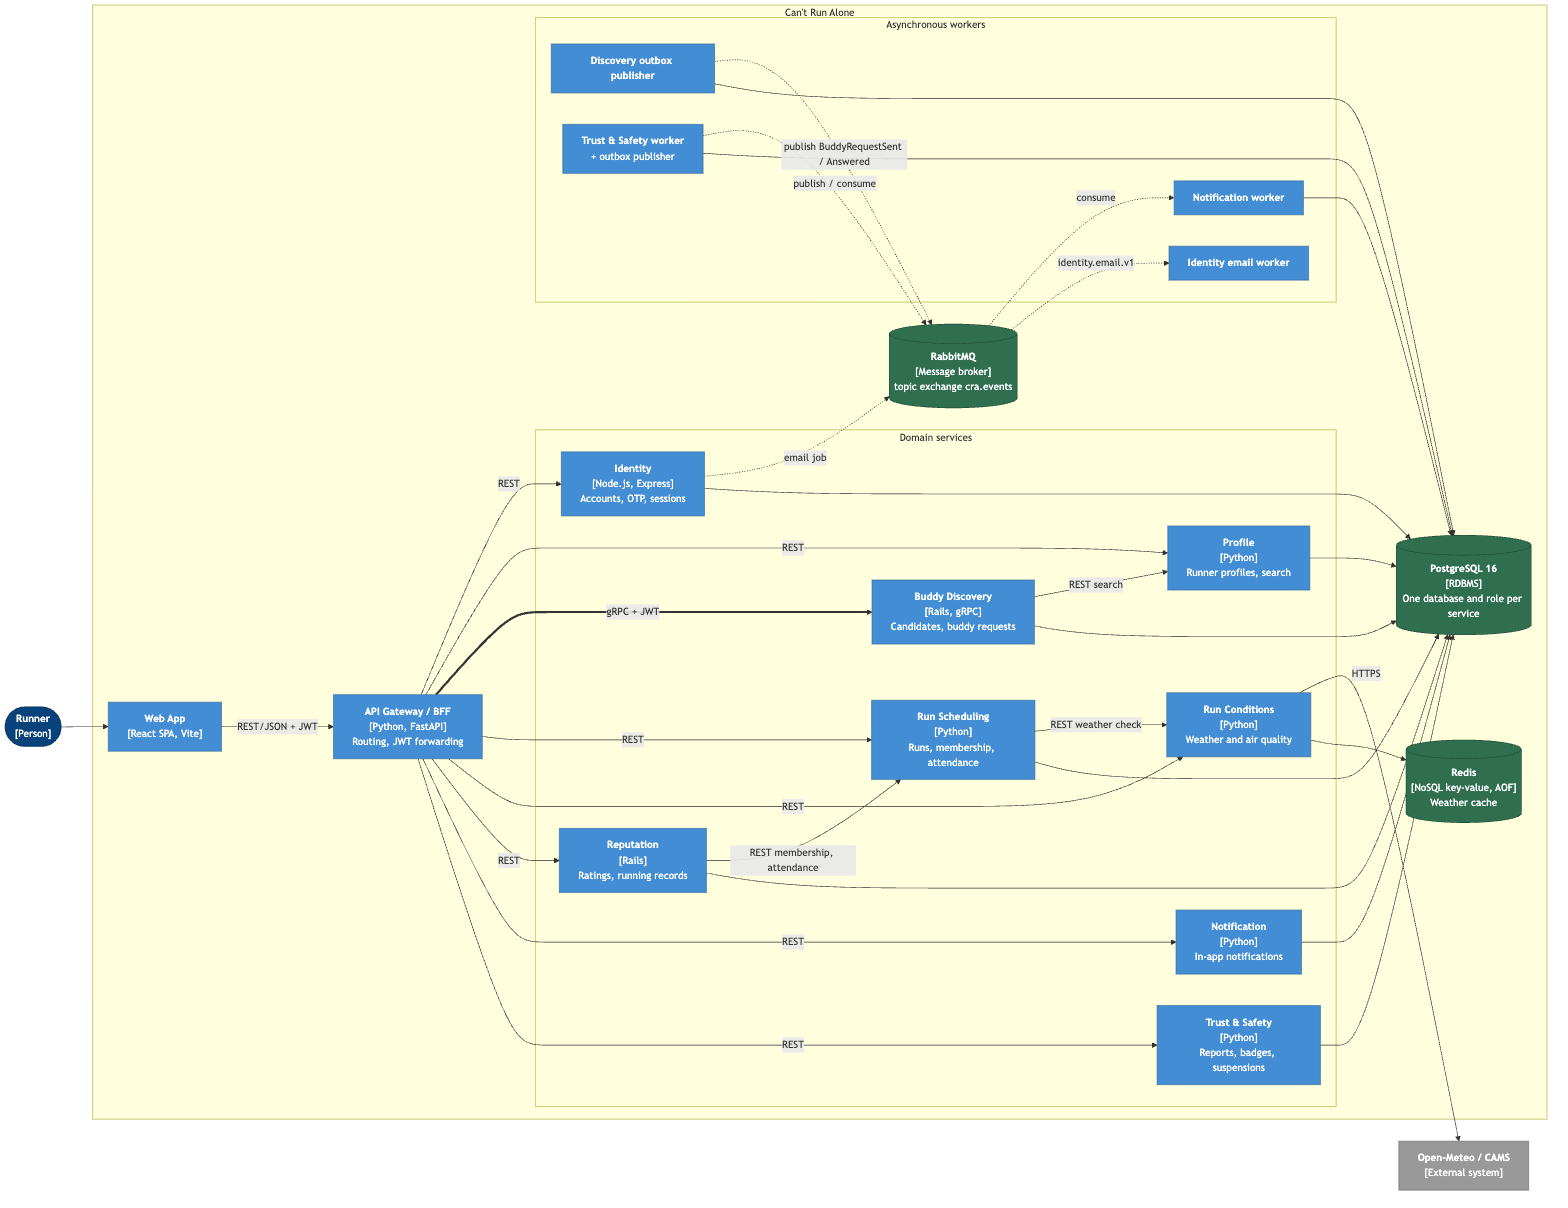
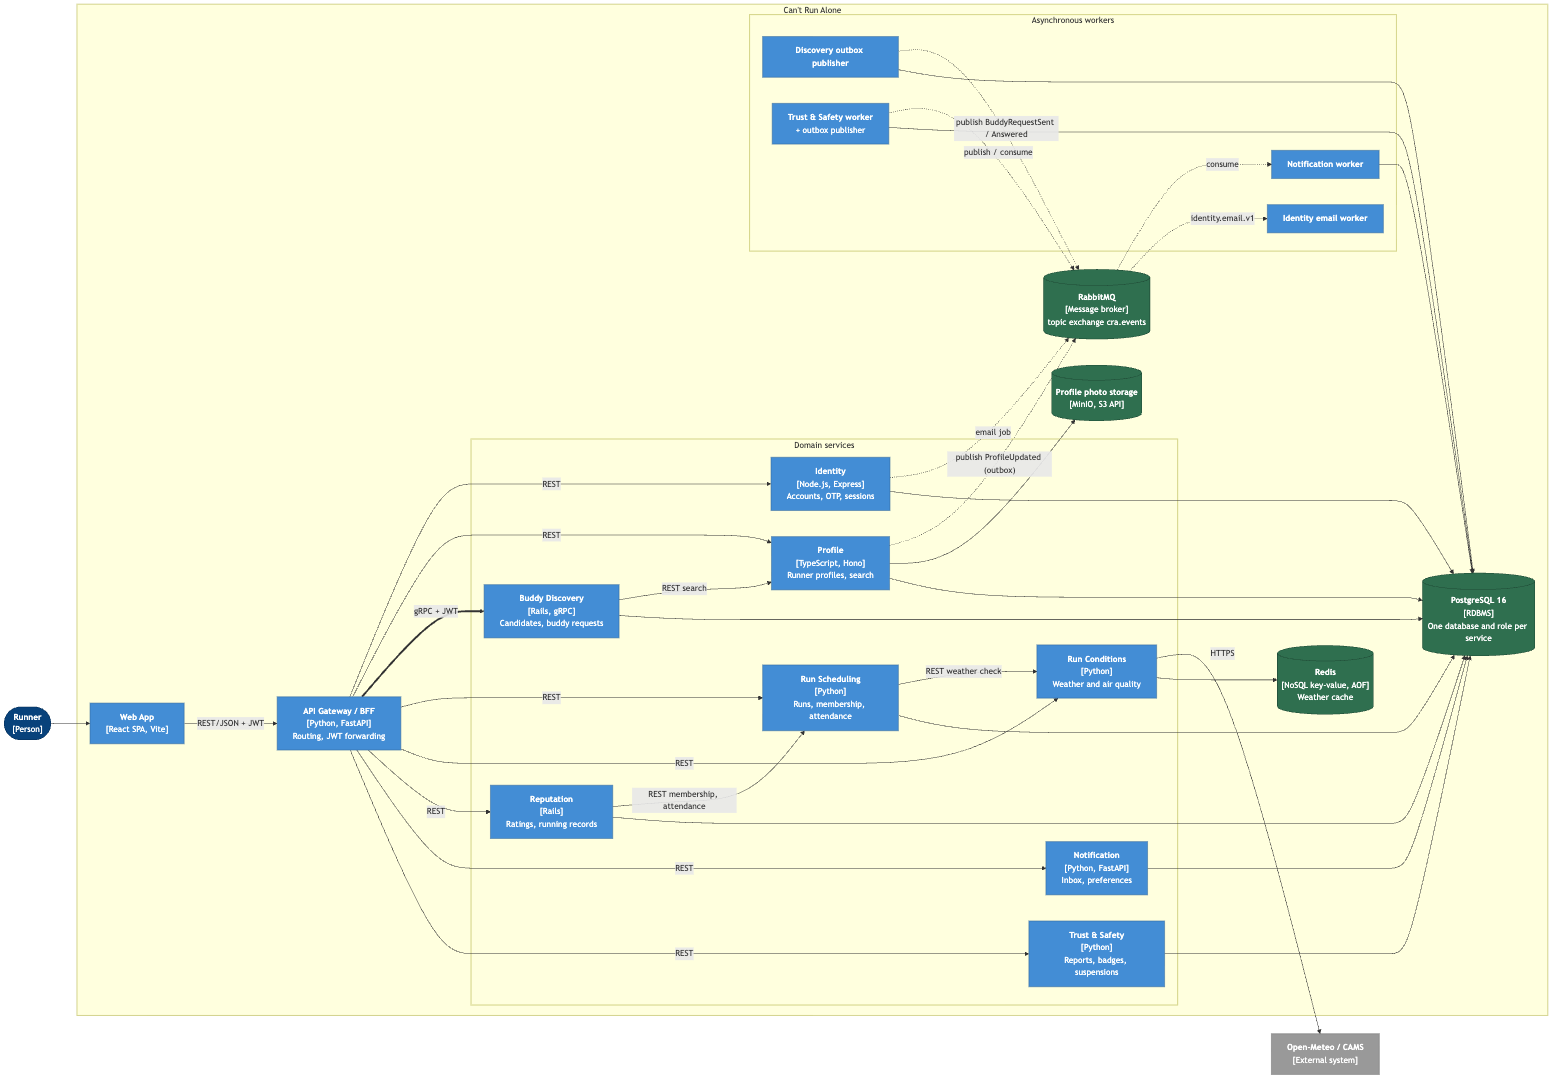
docs: show the team Profile and Notification in the container and deployment views (#5)
Profile is the TypeScript service with MinIO photo storage and publishes
ProfileUpdated; Notification is the FastAPI service with preferences. The
resilience page notes its runs used the Python Profile.

diff --git a/docs/architecture/c4-level-2-container.md b/docs/architecture/c4-level-2-container.md
@@ -16,12 +16,12 @@ flowchart LR
         subgraph services["Domain services"]
             direction TB
             identity["<b>Identity</b><br/>[Node.js, Express]<br/>Accounts, OTP, sessions"]
-            profile["<b>Profile</b><br/>[Python]<br/>Runner profiles, search"]
+            profile["<b>Profile</b><br/>[TypeScript, Hono]<br/>Runner profiles, search"]
             discovery["<b>Buddy Discovery</b><br/>[Rails, gRPC]<br/>Candidates, buddy requests"]
             scheduling["<b>Run Scheduling</b><br/>[Python]<br/>Runs, membership, attendance"]
             conditions["<b>Run Conditions</b><br/>[Python]<br/>Weather and air quality"]
             reputation["<b>Reputation</b><br/>[Rails]<br/>Ratings, running records"]
-            notification["<b>Notification</b><br/>[Python]<br/>In-app notifications"]
+            notification["<b>Notification</b><br/>[Python, FastAPI]<br/>Inbox, preferences"]
             trust["<b>Trust &amp; Safety</b><br/>[Python]<br/>Reports, badges, suspensions"]
         end
 
@@ -35,6 +35,7 @@ flowchart LR
 
         mq[("<b>RabbitMQ</b><br/>[Message broker]<br/>topic exchange cra.events")]
         redis[("<b>Redis</b><br/>[NoSQL key-value, AOF]<br/>Weather cache")]
+        photos[("<b>Profile photo storage</b><br/>[MinIO, S3 API]")]
         pg[("<b>PostgreSQL 16</b><br/>[RDBMS]<br/>One database and role per service")]
     end
 
@@ -60,6 +61,8 @@ flowchart LR
     outbox -.->|"publish BuddyRequestSent / Answered"| mq
     mq -.->|"consume"| nworker
     tworker -.->|"publish / consume"| mq
+    profile -.->|"publish ProfileUpdated (outbox)"| mq
+    profile --> photos
     identity -.->|"email job"| mq
     mq -.->|"identity.email.v1"| iworker
 
@@ -72,7 +75,7 @@ flowchart LR
     classDef ext fill:#999999,stroke:#6b6b6b,color:#ffffff
     class runner person
     class spa,gw,identity,profile,discovery,scheduling,conditions,reputation,notification,trust,outbox,nworker,tworker,iworker container
-    class mq,redis,pg store
+    class mq,redis,pg,photos store
     class weather ext
 ```
 
@@ -84,7 +87,7 @@ Solid arrows are synchronous calls; the thick arrow is the gRPC call; dotted arr
 | --- | --- |
 | REST service | Reputation, Profile, Run Scheduling, Run Conditions, Notification, Trust &amp; Safety, Identity |
 | gRPC service | Buddy Discovery (`buddy_discovery.v1`, port 50051) |
-| Message broker service | RabbitMQ: Discovery outbox → Notification worker; Trust &amp; Safety; Identity email worker |
+| Message broker service | RabbitMQ: Discovery outbox → Notification worker; Profile publishes `ProfileUpdated`; Trust &amp; Safety; Identity email worker |
 | API gateway | API Gateway / BFF (the only container the browser calls) |
 | RDBMS | PostgreSQL, one database and owning role per service ([0015](../adr/0015-give-each-service-its-own-postgresql-database.md)) |
 | NoSQL | Redis key-value store for weather and air quality, persisted with AOF ([0017](../adr/0017-cache-weather-and-air-quality-in-redis.md)) |
@@ -96,7 +99,8 @@ Solid arrows are synchronous calls; the thick arrow is the gRPC call; dotted arr
 
 - **Buddy Discovery is the gRPC service.** The design gave Discovery a REST API and Run Conditions and Identity gRPC APIs. In the build, the gateway calls Discovery over gRPC, and Conditions and Identity are REST.
 - **RabbitMQ, not Kafka.** Domain events go through RabbitMQ with a transactional outbox ([0021](../adr/0021-rabbitmq-for-local-domain-event-delivery.md)).
-- **Discovery reads Profile through its API.** There is no replicated candidate read model yet.
+- **Discovery reads Profile through its API.** Profile already publishes `ProfileUpdated`, but Discovery does not consume it into its own read model yet.
+- **Profile and Notification are the team implementations** (since 8 Nov 2026): Profile in TypeScript with photo storage in MinIO, Notification in FastAPI with per-category preferences.
 - **No admin console and no email/SMS delivery.** Moderation is an API used by configured moderator accounts; OTPs and emails go to a console adapter.
 
 ## Deployment notes

diff --git a/docs/architecture/deployment.md b/docs/architecture/deployment.md
@@ -28,8 +28,9 @@ flowchart LR
                 dh["Headless Service<br/>discovery-headless:50051"]
                 disc["Deployment discovery<br/>gRPC, 30 s max connection age"]
                 workers["Worker Deployments<br/>discovery-outbox, notification-worker,<br/>identity-worker"]
-                jobs["Jobs<br/>db-bootstrap, migrations"]
+                jobs["Jobs<br/>db-bootstrap, migrations,<br/>profile bucket and broker user"]
                 pg[("StatefulSet postgres<br/>PVC 5 Gi")]
+                photos[("StatefulSet profile-storage (MinIO)<br/>PVC 1 Gi, NodePort 30091")]
                 redis[("StatefulSet redis (AOF)<br/>PVC 1 Gi")]
                 mq[("StatefulSet rabbitmq<br/>PVC 1 Gi")]
                 cfg["ConfigMap service-endpoints<br/>Secret cra-secrets"]
@@ -43,6 +44,7 @@ flowchart LR
     apps --> pg
     disc --> pg
     apps -->|"conditions only"| redis
+    apps -->|"profile only"| photos
     workers --> mq
     workers --> pg
     jobs -->|"before any Deployment"| pg
@@ -55,7 +57,8 @@ flowchart LR
 | redis (AOF) | StatefulSet | `redis:6379` | PVC 1 Gi |
 | rabbitmq | StatefulSet | `rabbitmq:5672`, `:15672` | PVC 1 Gi |
 | identity (team) + identity-worker | Deployment | `identity:5000` | none |
-| profile, scheduling, conditions, notification (+ worker) | Deployment | `<name>:8000` | none |
+| profile-storage (MinIO) | StatefulSet | `profile-storage:9000`, NodePort `30091` | PVC 1 Gi |
+| profile (team, TypeScript), scheduling, conditions, notification (team, FastAPI) (+ worker) | Deployment | `<name>:8000` | none |
 | discovery + discovery-outbox | Deployment | `discovery:50051`, `discovery-headless:50051` | none |
 | reputation | Deployment | `reputation:3000` | none |
 | gateway | Deployment | `gateway:8000`, NodePort `30090` | none |

diff --git a/docs/quality-attribute-resilience.md b/docs/quality-attribute-resilience.md
@@ -15,7 +15,7 @@ The measurable quality attribute we demonstrate: **the system keeps serving requ
 
 ## Result
 
-Measured with `k8s/scripts/replacement-demo.sh` on 31 Oct 2026, six runs, each 2,000 requests to `GET /api/v1/me/profile`:
+Measured with `k8s/scripts/replacement-demo.sh` on 31 Oct 2026, six runs, each 2,000 requests to `GET /api/v1/me/profile`. These runs used the Python Profile; since 8 Nov 2026 Profile is the team TypeScript service, so re-run the scenario before presenting it as a measurement of the current Profile:
 
 | Run | Succeeded | Failed | p50 | p95 | Max |
 | --- | ---: | ---: | ---: | ---: | ---: |
